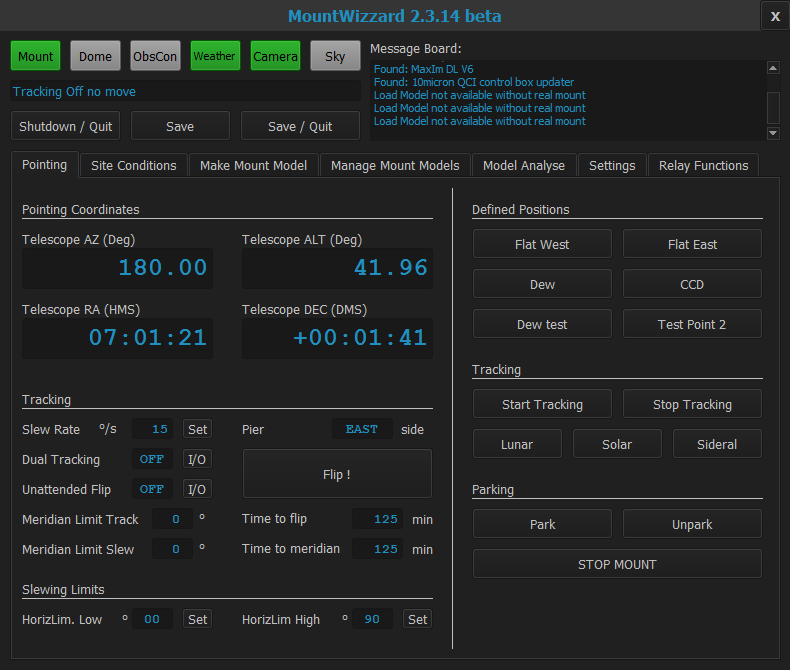
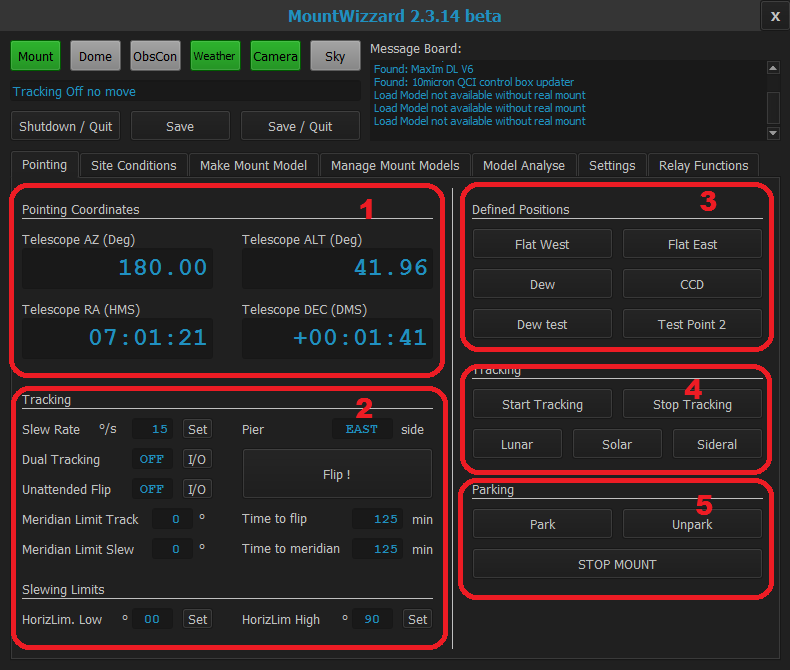
readme update

Changed region(s): [[0.0, 0.2687, 1.0, 0.9851], [0.9722, 0.5672, 1.0, 0.6866]]

diff --git a/mountwizzard/docu/11start01.md b/mountwizzard/docu/11start01.md
@@ -1,41 +1,45 @@
-## <img src="../pics/mw.png" width='64' height='64'/>Pointing Tab
+## Pointing Tab
 
-### Overview of working areas inside MountWizzard main screen
-
-Basically you have 3 main areas, where the functions of MW are located:
-
-<img src="../pics/mainscreen_explain01.png"/>
+<img src="../pics/tab_pointing.png"/>
 
 ### Area 1
-
-You have the status buttons of the devices showing different colors:
-
-- grey: device not configured or disabled
-- red: device configured, but not connected
-- yellow: device connected, but not fully functional
-- green: device connected and full function
-
-The yellow color only exists in camera device. There you could distinguish between the application fpr imaging is running
-(showing yellow) and the camera itself is connected to the imaging application itself (green).
+Area 1 is showing the pointing coordinates in Azimuth / Altitude in degrees as well as the Right Ascention / Declination in J2000 values.
+Just to know where you are.
 
 ### Area 2
-
-It's called the message board. So all necessary information, status hints or error messages are displayed there. It's like
-a log for MountWizzard. Please notice that the log for the model building is show in a board ion the model plot window. The
-message board is scrolling. So if you missed a message please scroll up to view it again.
+Area 2 is showing informations about the tracking status and the behaviour of the mount.
+#### Slew rate
+Could be set by entering a new valid value, followed by pressing 'set'. If the value is not in the valid range, no change is
+introduced. If your mount driver could set the slew rate, this value could be overwritten by the driver.
+#### Dual Tracking
+Could be toggled with the I/O button. Status is shown.
+#### Unattended Flip
+Could be toggled with the I/O button. Status is shown.
+#### Meridian Limit Track
+Status of the setting how for the mount tracks before doing a meridian flip. Positive numbers are after the meridian.
+#### Meridian Limit Slew
+Status of the setting how for the mount slews before doing a meridian flip. Positive numbers are after the meridian.
+#### Pier
+Shows East or West side, depending of the orientation.
+#### Time to flip
+Shows the time in minutes how long the mount will track until the flip happens
+#### Time to meridian
+Show the time in minutes how long the mount will track until the meridian is reached. Depending on the setting of Meridian Limits this
+might be different from above value
+#### Flip Button
+If the mount is in a status, where a manual meridian flip could be done, you could start it with pressing the button.
+#### Slewing Limits
+The Horizon Limits for lower and higher side are shown. They could be changed by entering a new value and pressing 'set'
 
 ### Area 3
+Area 3 offers 6 free programmable Button for slewing the mount to defined Azimuth / Altitude positions. The button text and the Az/Alt
+values could be set under settings/parkpositionconfig.
 
-Basically this is the functional area, where most of the user interaction of MountWizzard takes place. The functions are
-ordered in TABs:
+### Area 4
+Area 4 offers a direct function to set tracking speeds (lunar, solar, sideral) and you can start or stop tracking of the mount.
 
-- [Pointing TAB](11start01)
-- [Site Conditions TAB](11start02)
-- [Make Mount Model TAB](11start03)
-- [Manage Mount Models TAB](11start04)
-- [Model Analyse TAB](11start05)
-- [Sittings TAB](11start06)
-- [Relay Functions TAB](11start07)
+### Area 5
+Area 5 offers park and unpark commands as well as an immediate stop of the mount movement.
 
 [Screens](11start00.md)
 

diff --git a/mountwizzard/docu/10installation.md b/mountwizzard/docu/10installation.md
@@ -1,4 +1,4 @@
-## <img src="../pics/mw.png" width='64' height='64'/>Installation of MountWizzard
+## Installation of MountWizzard
 
 Please read the following parts to be sure to make the right steps for the successful installation of MountWizzard. If you
 have problems, the right spot where to post messages is the 10micron software developer forum on: http://www.10micron.eu/forum/viewforum.php?f=18.

diff --git a/mountwizzard/docu/01overview.md b/mountwizzard/docu/01overview.md
@@ -1,4 +1,4 @@
-## <img src="../pics/mw.png" width='64' height='64'/>First start - Overview
+## First start - Overview
 ### Main Screen
 Mountwizzard open of a set of windows depending on the use case you would like to follow. First, there is the main screen:
 

diff --git a/mountwizzard/docu/00home.md b/mountwizzard/docu/00home.md
@@ -22,4 +22,4 @@ in a short [overview](01overview.md).
 
 A first good view on how modeling could be done is on the [Modeling Workflow Chart](02modeling_workflow.md)
 
-[Explanation of the Screens](11start00.md)
+[First Steps in MountWizzard](11start00.md)

diff --git a/mountwizzard/docu/11start00.md b/mountwizzard/docu/11start00.md
@@ -1,4 +1,4 @@
-## <img src="../pics/mw.png" width='64' height='64'/>First start of MountWizzard
+## First steps in MountWizzard
 
 ### Overview of working areas inside MountWizzard main screen
 

diff --git a/mountwizzard/docu/02modeling_workflow.md b/mountwizzard/docu/02modeling_workflow.md
@@ -1,4 +1,4 @@
-## <img src="../pics/mw.png" width='64' height='64'/>Modeling Workflow
+## Modeling Workflow
 
 ![Modeling Workflow](../pics/do_modeling.png)
 
